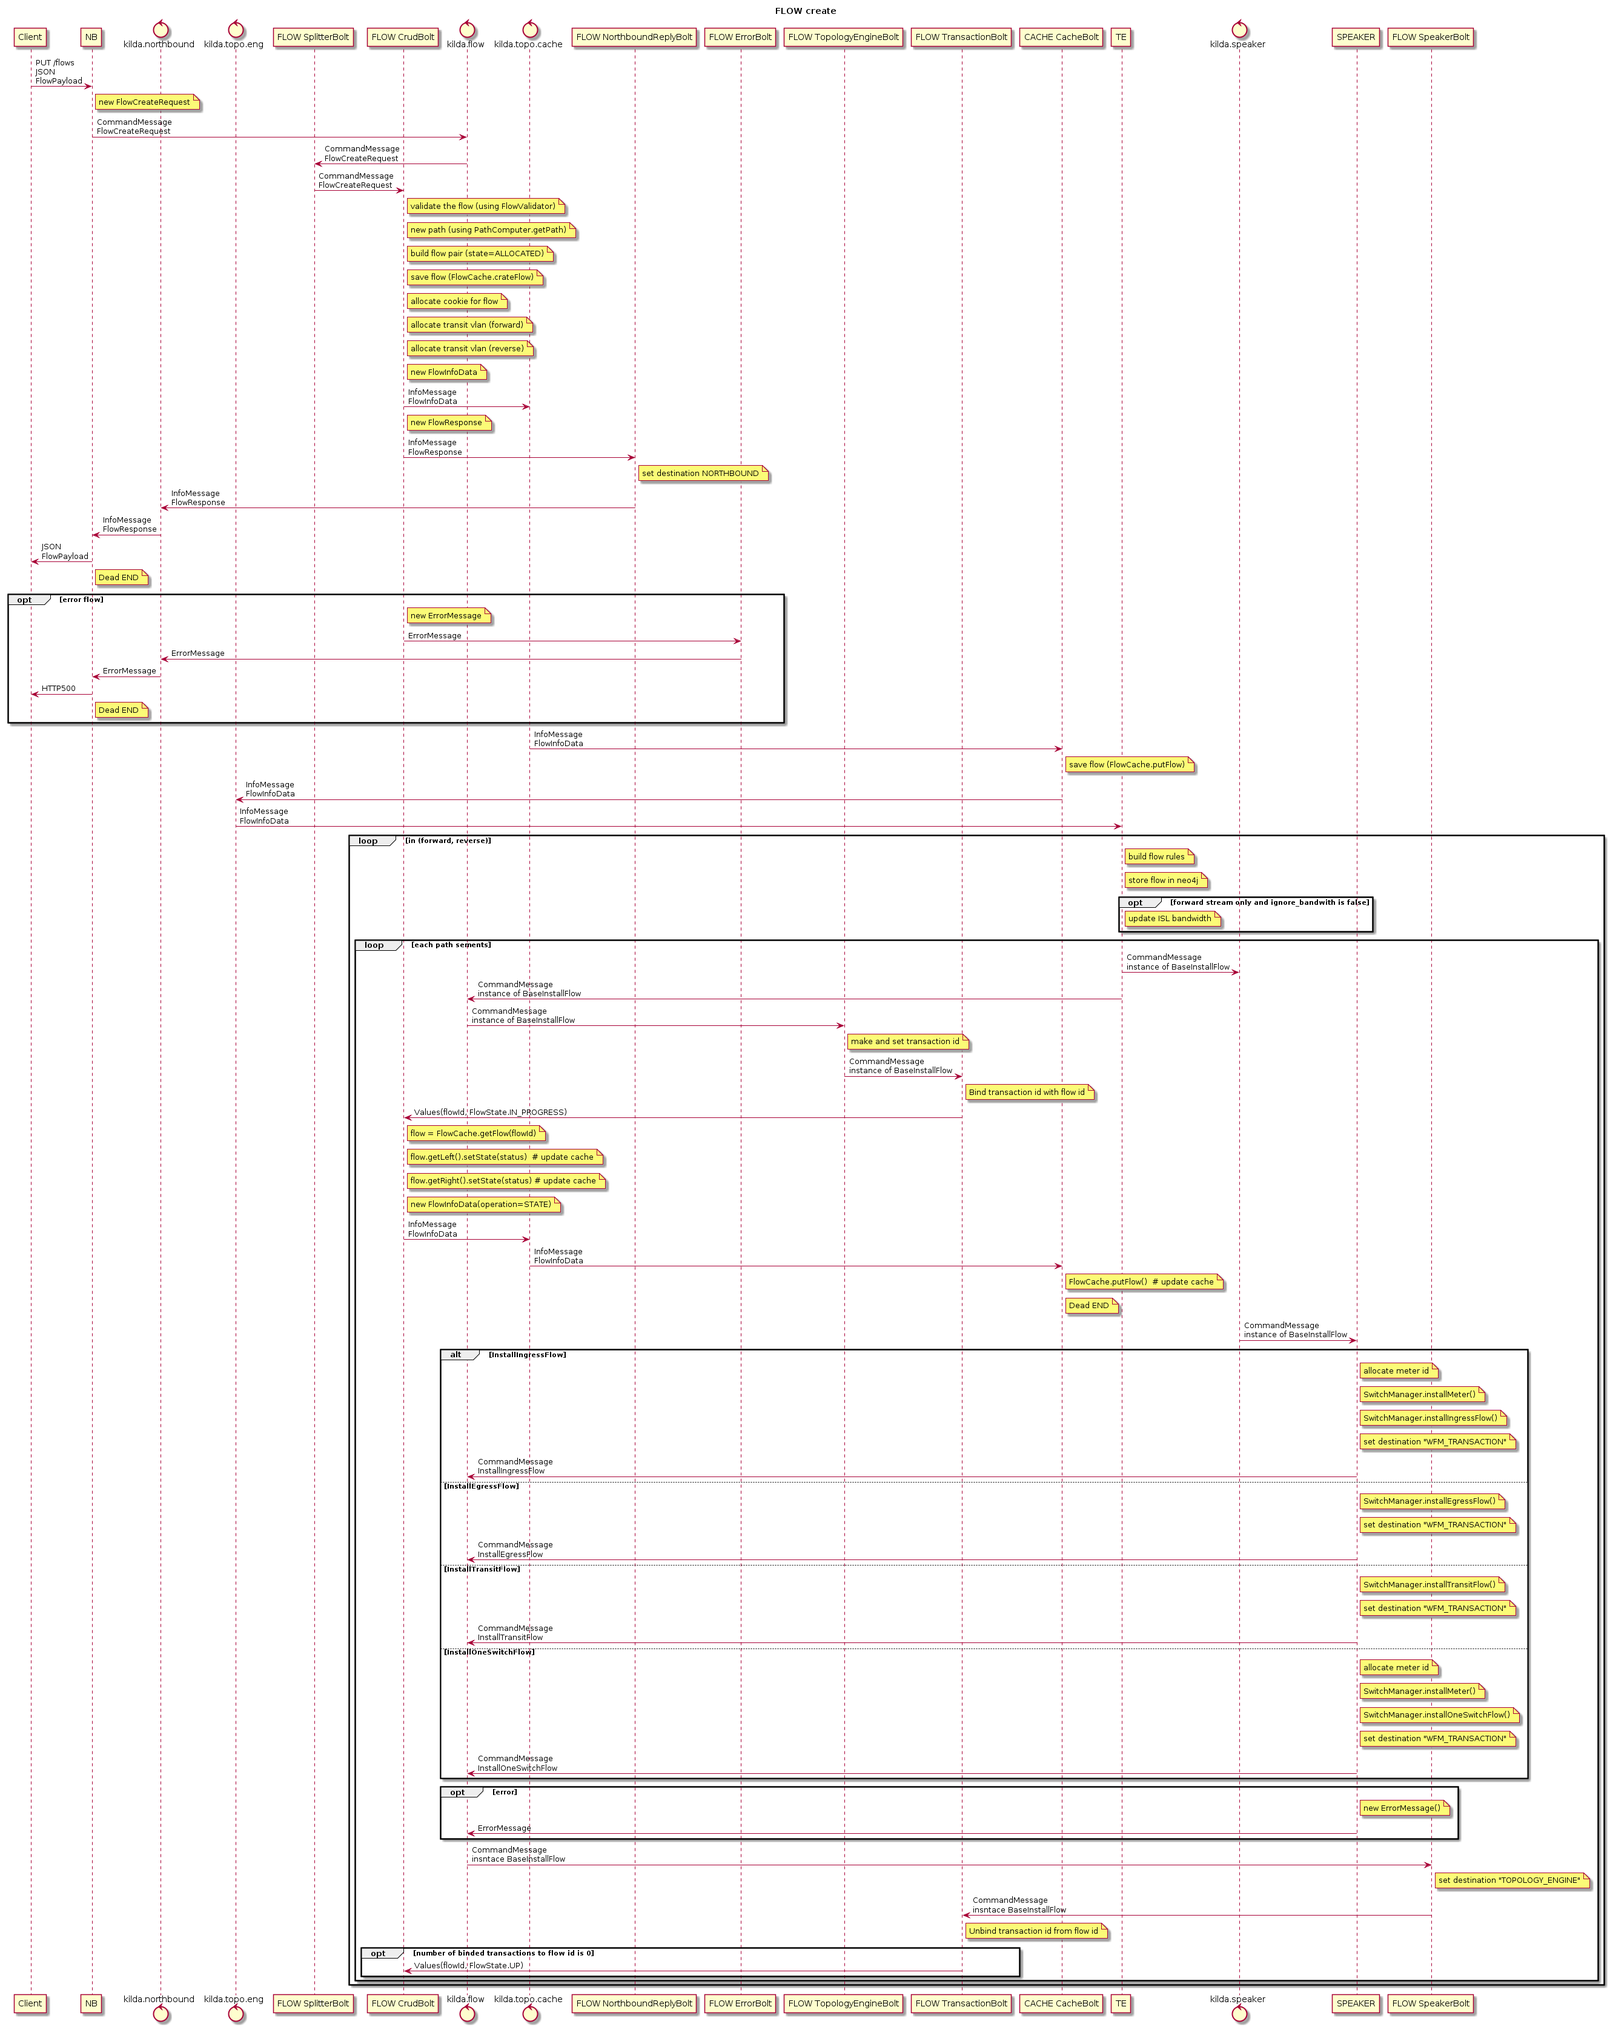
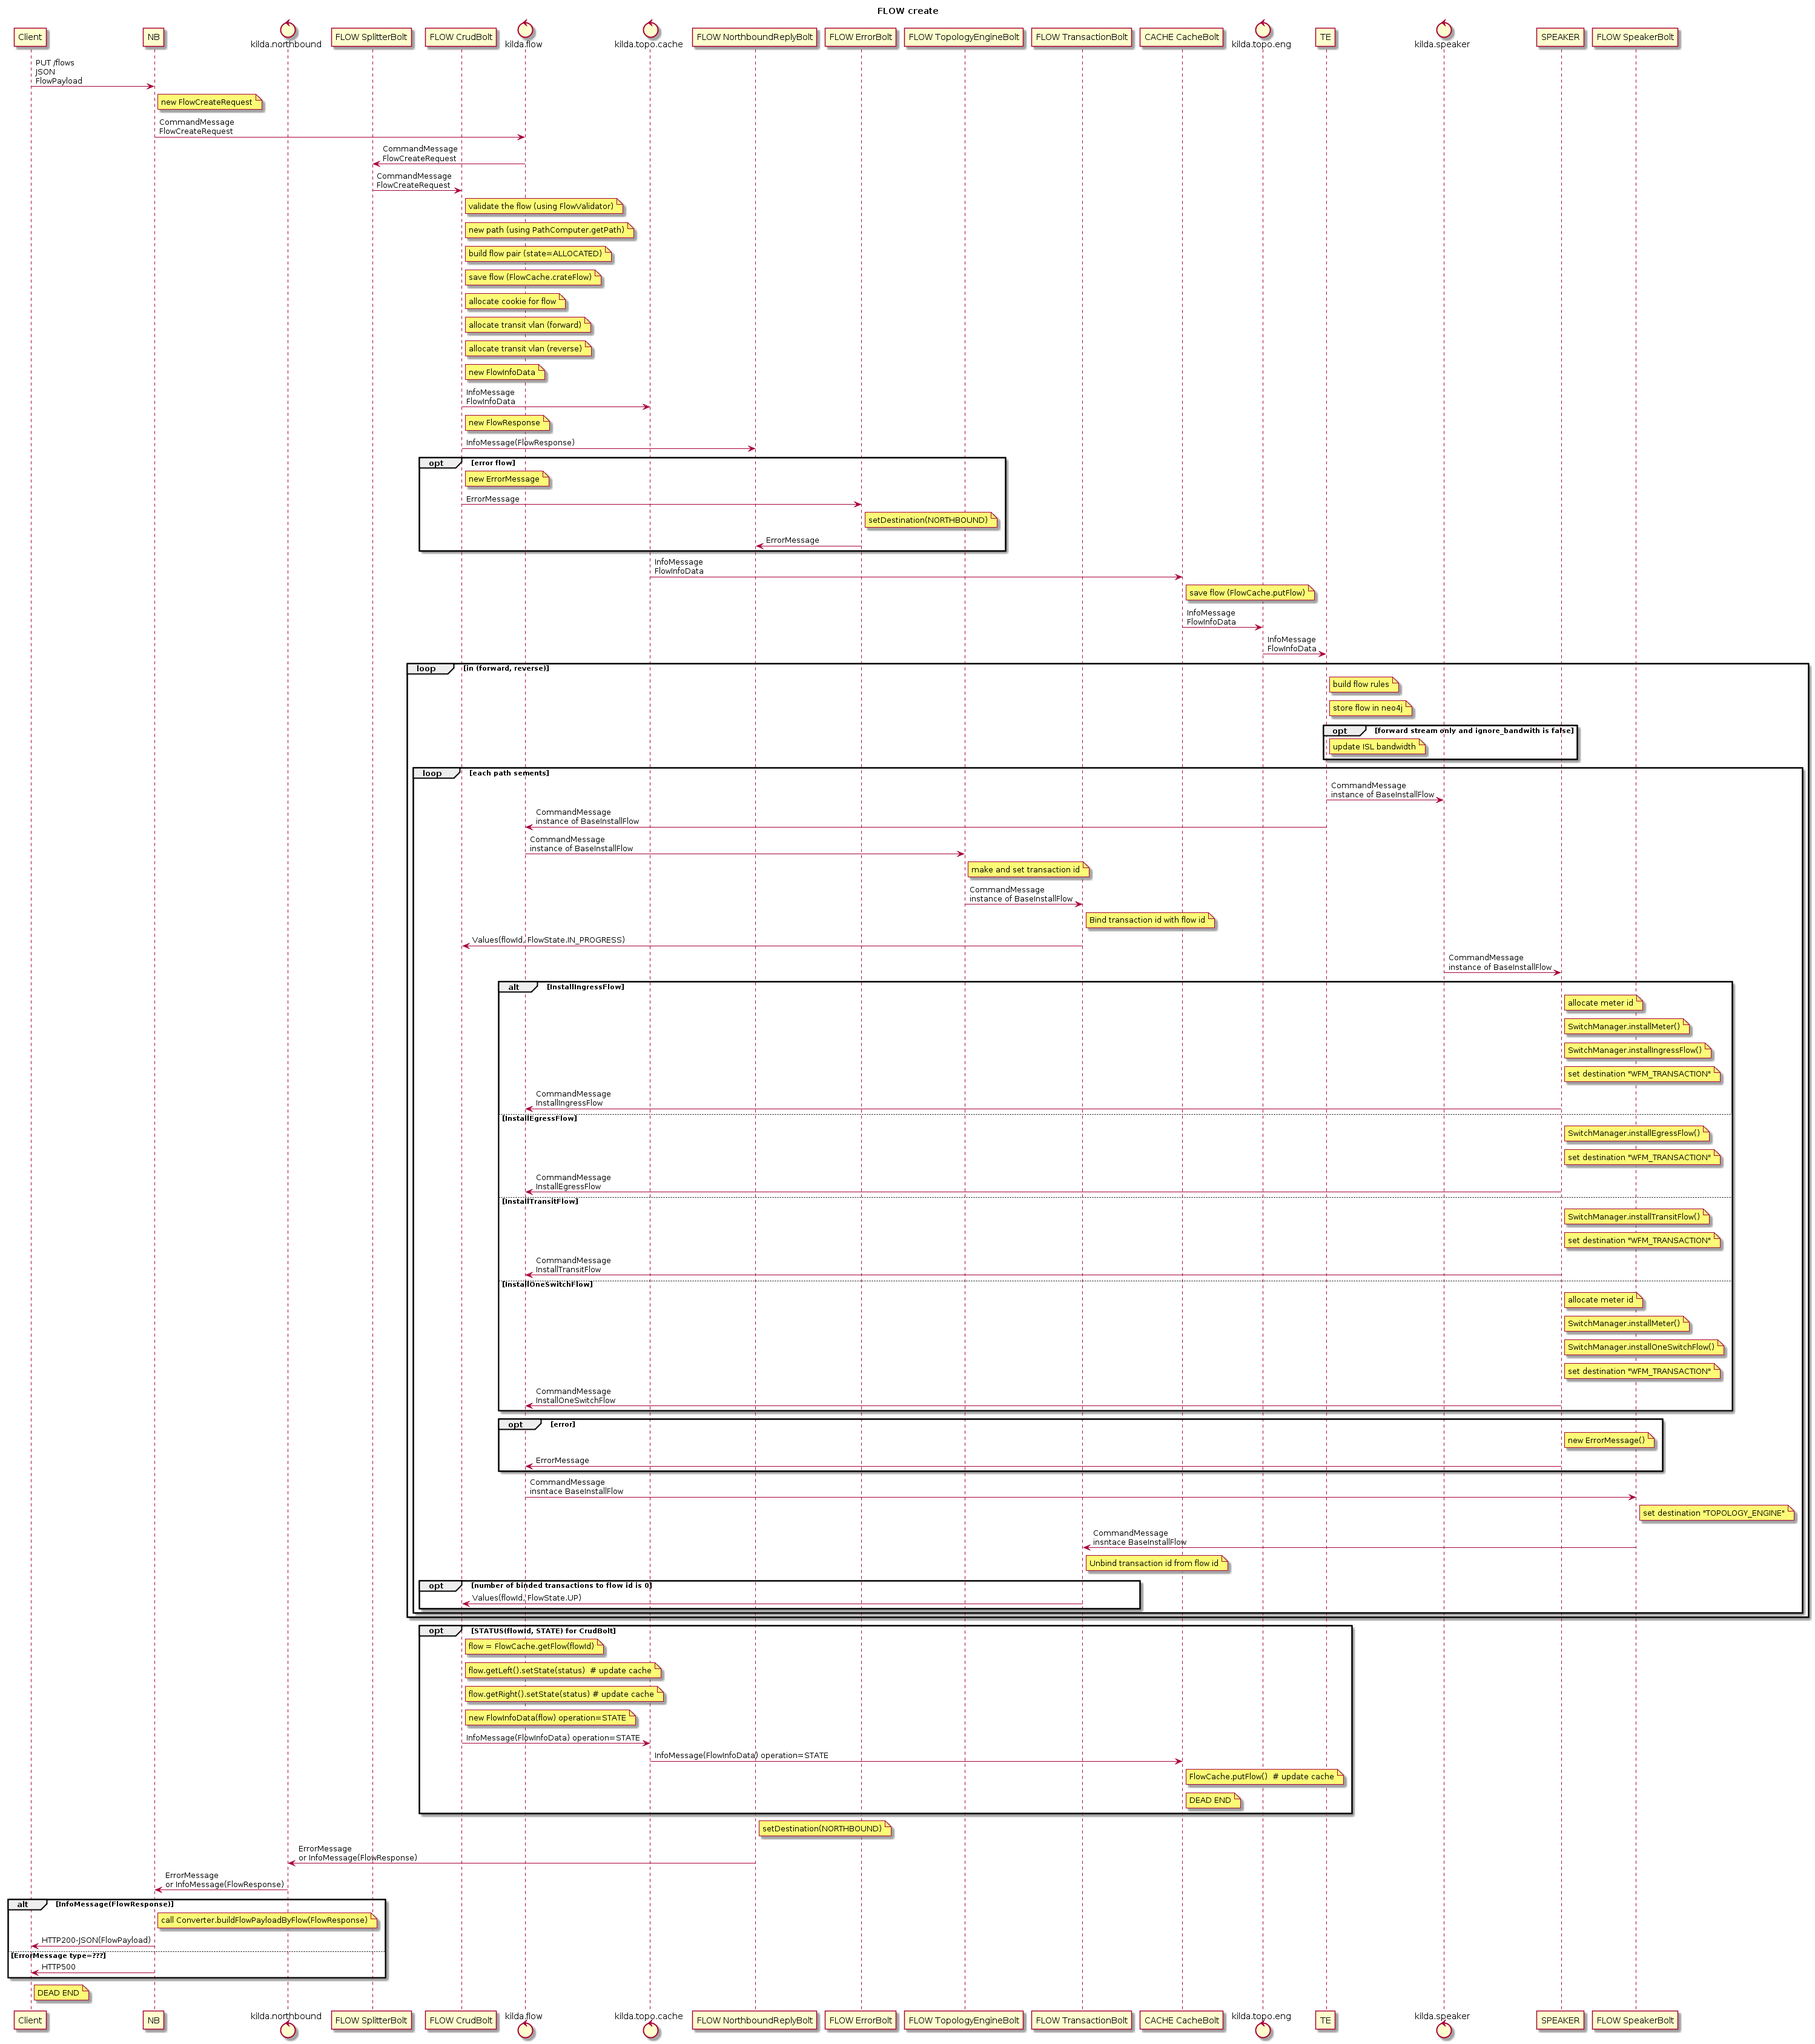
Add flow DELETE sequence diagramm
Also flow CREATE diagram was modified to make common parts on both
diagrams look similar.

diff --git a/docs/design/usecase/flow-crud.md b/docs/design/usecase/flow-crud.md
@@ -32,6 +32,7 @@ of flow commands to the openflow speaker (floodlight) to install the flow rules 
 
 ![Flow Creation](./flow-crud-create.png "Flow Creation")
 ![Flow Creation](./flow-crud-create-full.png "Flow Creation (full)")
+![Flow Delete](./flow-crud-delete-full.png "Flow Delete (full)")
 
 #### Diagram Text
 
